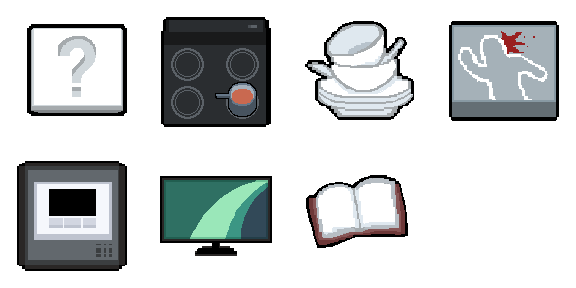
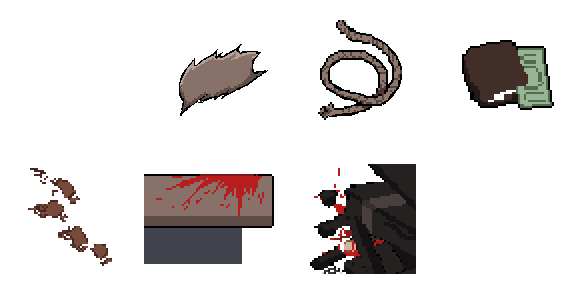
Added clues for murder 3

diff --git a/js/plugins/Inventory.js b/js/plugins/Inventory.js
@@ -78,27 +78,27 @@
  * 
  * @param clue13
  * @desc the description text for the clue
- * @default
+ * @default A scrap of brown cloth
  * 
  * @param clue14
  * @desc the description text for the clue
- * @default
+ * @default A frayed rope
  * 
  * @param clue15
  * @desc the description text for the clue
- * @default
+ * @default A wallet
  * 
  * @param clue16
  * @desc the description text for the clue
- * @default
+ * @default Dirty boot prints
  * 
  * @param clue17
  * @desc the description text for the clue
- * @default
+ * @default Blood splattered on the piano machine
  * 
  * @param clue18
  * @desc the description text for the clue
- * @default
+ * @default A man crushed by a piano
  * 
  * @param clue19
  * @desc the description text for the clue
@@ -153,7 +153,7 @@ ImageManager.reservePicture(inventory_background)
 
 var picture_ID = 14
 
-var inventory_width = 339
+var inventory_width = 315
 
 // Open the inventory on keypress
 _alias_map_update = Scene_Map.prototype.update;
